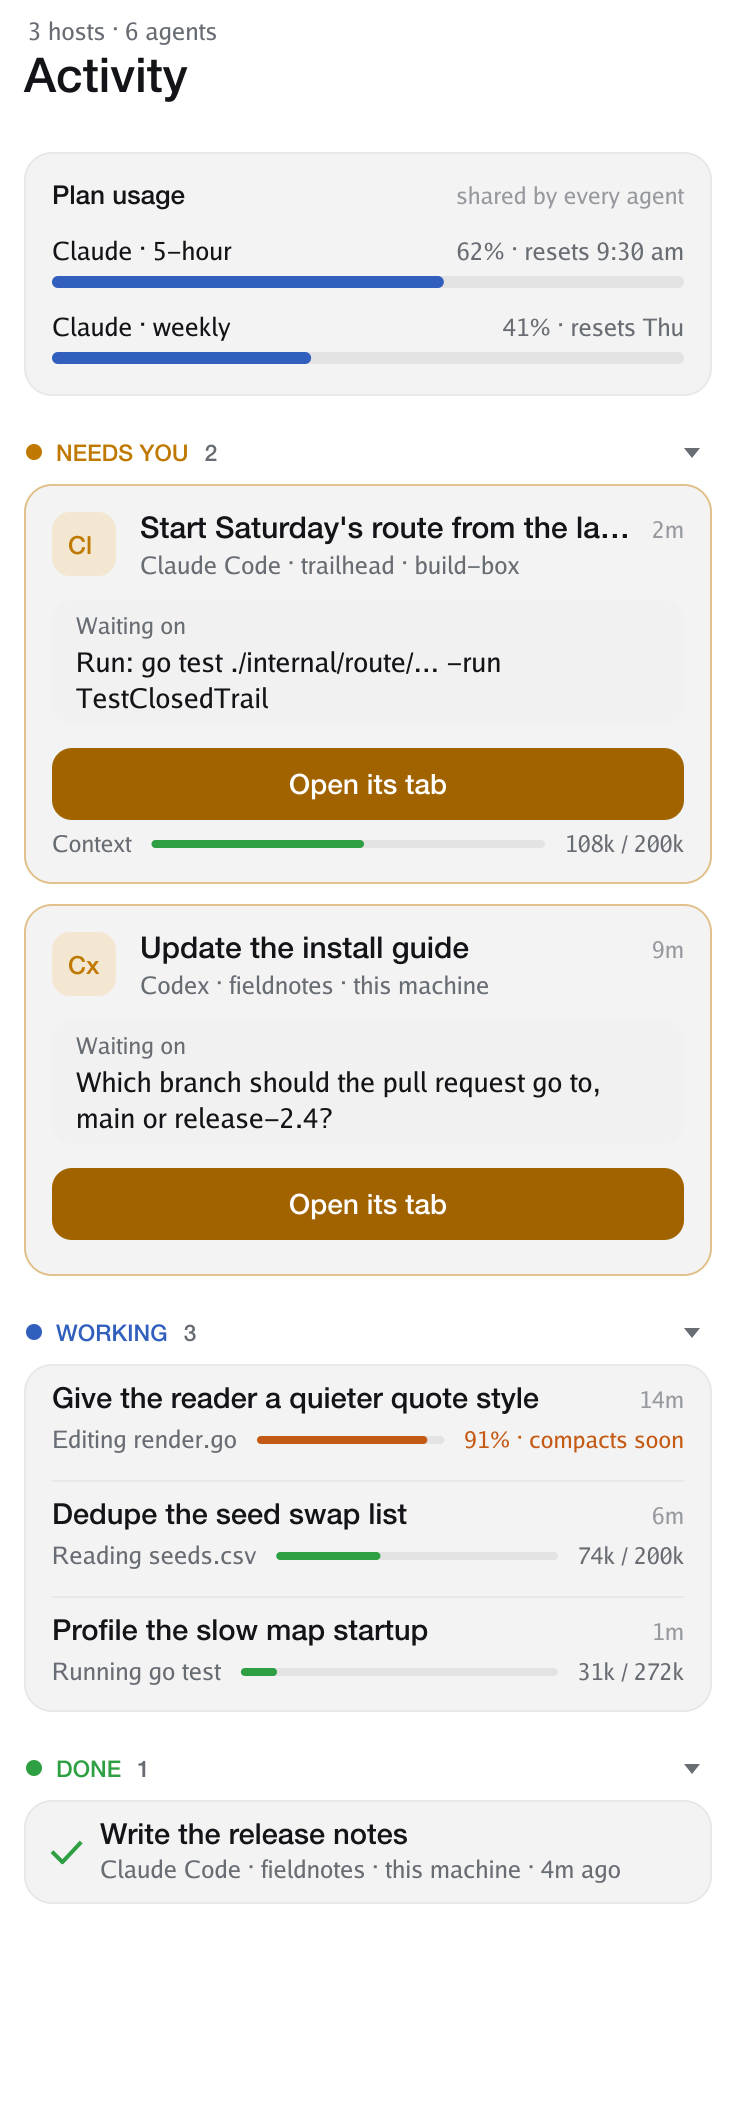
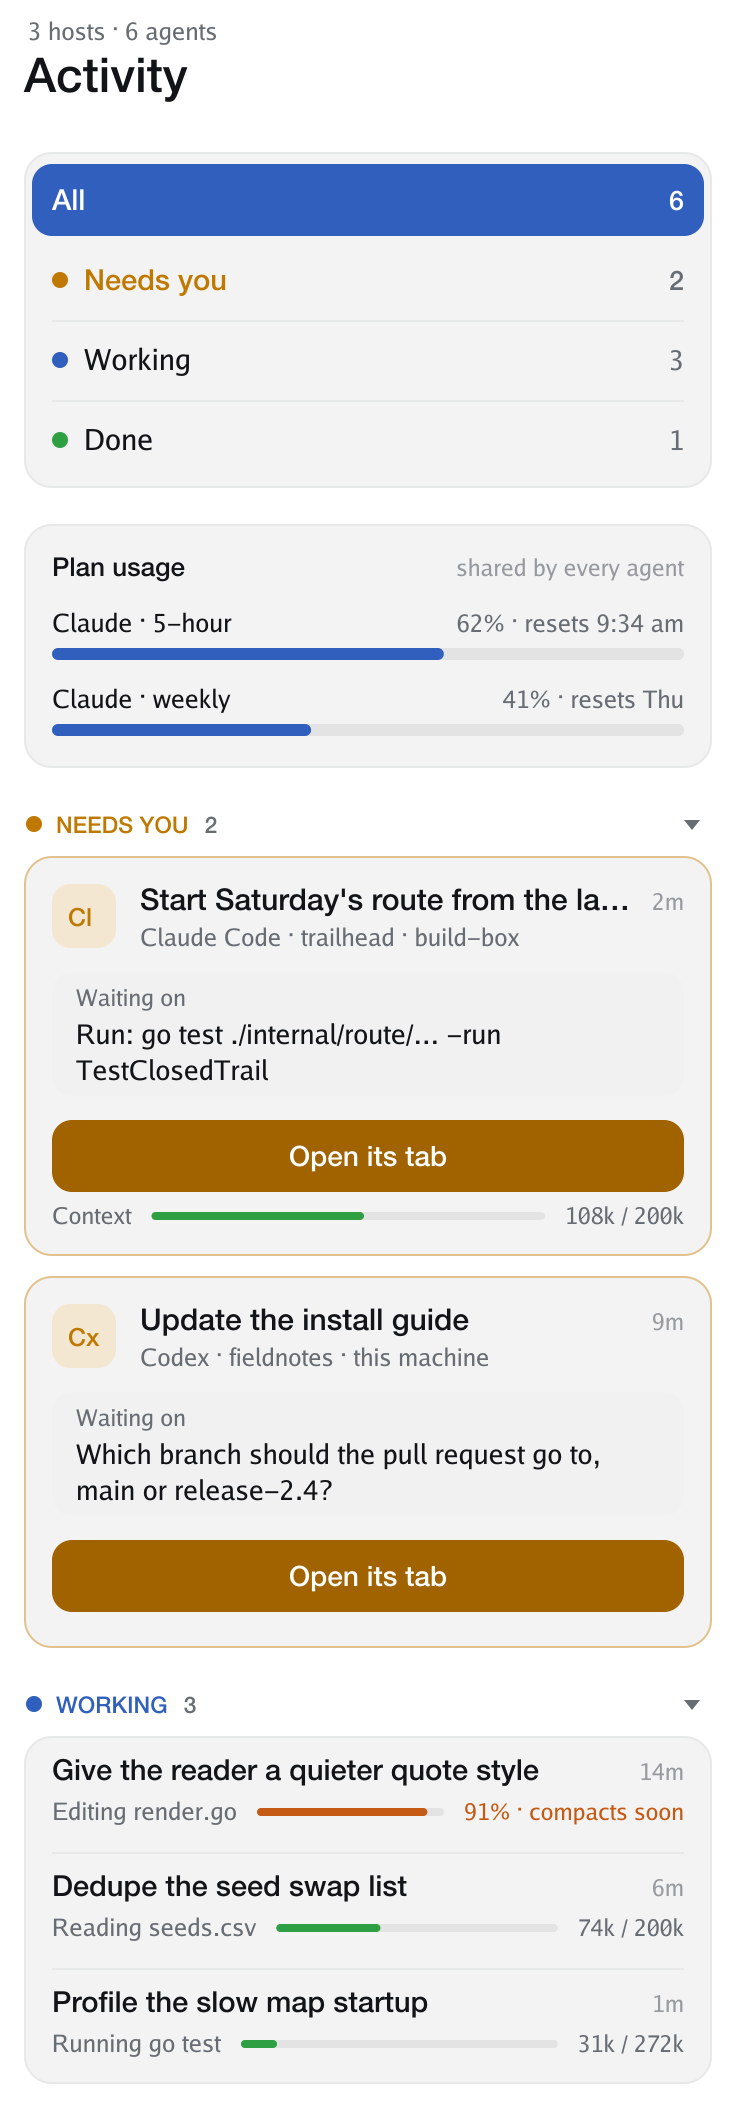
In a narrow pane, stack the tabs one per row at the top of the list
Claude-Session: https://claude.ai/code/session_01VytZudmu48gYaxKF5KDtzx

diff --git a/activity.go b/activity.go
@@ -58,16 +58,11 @@ type activityView struct {
 	msg     string
 	hosts   int // Rex servers with agents on them
 	folded  map[avTab]bool
-	stacked bool // no tabs: the pane's too narrow for them
+	stacked bool // the pane's too narrow for a row of tabs: they stack in the list
 }
 
-// shownTab is the tab in effect: all of them when the tabs are hidden.
-func (v *activityView) shownTab() avTab {
-	if v.stacked {
-		return tabAll
-	}
-	return v.tab
-}
+// shownTab is the tab in effect.
+func (v *activityView) shownTab() avTab { return v.tab }
 
 func (v *activityView) sections() (needs, working, done []Agent) {
 	for _, a := range v.agents {
@@ -486,6 +481,9 @@ func (v *activityView) drawColumn(p avPaint, c avColors, col avColumn, needs, wo
 	y += 10
 	r := p.r
 	x0, x1 := col.x0, col.x1
+	if v.stacked {
+		y = v.tabList(p, c, x0, x1, y, len(needs), len(working), len(done)) + 18
+	}
 	if col.plan && v.hasPlan {
 		y = v.drawPlan(p, c, x0, x1, y) + 18
 	}
@@ -536,6 +534,66 @@ func (v *activityView) drawColumn(p avPaint, c avColors, col avColumn, needs, wo
 		y += 20
 	}
 	return y - start
+}
+
+// tabList is the tabs stacked one per row, for a narrow pane: each with its
+// count, the chosen one filled.
+func (v *activityView) tabList(p avPaint, c avColors, x0, x1, y float64, nNeeds, nWorking, nDone int) float64 {
+	r := p.r
+	tabs := []struct {
+		label string
+		n     int
+		dot   color.RGBA
+		fill  color.RGBA
+	}{
+		{"All", nNeeds + nWorking + nDone, r.pal.gray, c.work},
+		{"Needs you", nNeeds, c.needs, c.needsFill},
+		{"Working", nWorking, c.work, c.work},
+		{"Done", nDone, c.good, c.work},
+	}
+	const rowH = 40.0
+	h := rowH*float64(len(tabs)) + 8
+	p.box(x0, y, x1, y+h, avRadius, c.card)
+	p.outline(x0, y, x1, y+h, avRadius, c.cardLine)
+	for i, t := range tabs {
+		ry0 := y + 4 + float64(i)*rowH
+		ry1 := ry0 + rowH
+		sel := avTab(i) == v.tab
+		ink, sub := r.pal.text, r.pal.gray
+		if sel {
+			p.box(x0+4, ry0+2, x1-4, ry1-2, 10, t.fill)
+			ink = rgb(255, 255, 255)
+			if i == int(tabNeeds) {
+				ink = c.needsInk
+			}
+			sub = ink
+		} else if i > 0 {
+			p.dot(x0+avPad+4, (ry0+ry1)/2, 4, t.dot)
+		}
+		hot := i == int(tabNeeds) && t.n > 0 && !sel
+		lx := x0 + avPad + 16
+		if i == 0 && !sel {
+			lx = x0 + avPad
+		}
+		if sel {
+			lx = x0 + avPad
+		}
+		col := ink
+		if hot {
+			col = c.needs
+		}
+		p.text(t.label, lx, (ry0+ry1)/2+5, 14.5, sel || hot, col, x1-lx-50)
+		if t.n > 0 || i == 0 {
+			p.right(fmt.Sprint(t.n), x1-avPad, (ry0+ry1)/2+5, 13.5, sel || hot, sub)
+		}
+		if i > 0 && !sel && avTab(i-1) != v.tab {
+			p.rect(x0+avPad, ry0, x1-avPad, ry0+1, c.cardLine)
+		}
+		if p.on() {
+			v.hits = append(v.hits, avHit{x0, ry0, x1, ry1, fmt.Sprintf("tab:%d", i)})
+		}
+	}
+	return y + h
 }
 
 // section draws a section's heading, which folds it away or opens it

diff --git a/README.md b/README.md
@@ -32,7 +32,7 @@ Or run `rex-activity` in any pane.
 - **Click** a card, or a row, to jump to that agent's pane.
 - **Click a tab** to show only what needs you, what's working, or what's done. Click it again for all. **1** to **4** do the same.
 - **Click a section's heading** (Needs you, Working, Done) to fold it away, and again to open it.
-- **In a narrow pane** the tabs would stop being readable, so they go away and the sections stack with their counts. You fold them from their headings instead.
+- **In a narrow pane** a row of tabs would stop being readable, so the tabs stack one per row at the top of the list, each with its count.
 - **Scroll** with the wheel, or **j** and **k**. The title and tabs stay pinned.
 - **q** or **Esc** closes it.
 
